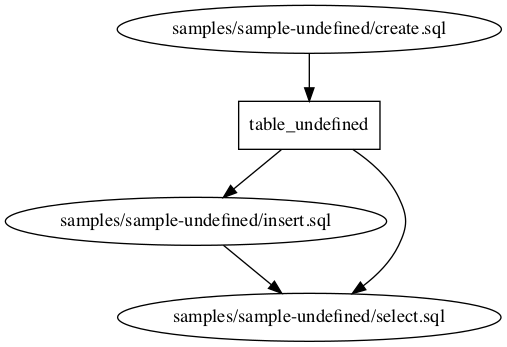
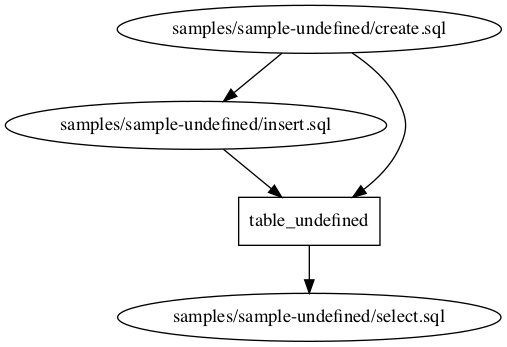
Make side effects before table and after create statements

diff --git a/alphasql/alphadag.cc b/alphasql/alphadag.cc
@@ -125,19 +125,27 @@ int main(int argc, char *argv[]) {
         }
       }
 
-      for (const auto &insert : table_queries.inserts) {
-        alphasql::UpdateEdges(depends_on, table_queries.others, insert);
-      }
-      for (const auto &update : table_queries.updates) {
-        alphasql::UpdateEdges(depends_on, table_queries.others, update);
-      }
       if (with_tables) {
-        alphasql::UpdateEdges(depends_on, table_queries.inserts, table_name);
-        alphasql::UpdateEdges(depends_on, table_queries.updates, table_name);
         alphasql::UpdateEdges(depends_on, table_queries.others, table_name);
+        alphasql::UpdateEdges(depends_on, table_queries.inserts,
+                              table_queries.create);
+        alphasql::UpdateEdges(depends_on, table_queries.updates,
+                              table_queries.create);
+        for (const auto &insert : table_queries.inserts) {
+          alphasql::UpdateEdges(depends_on, {table_name}, insert);
+        }
+        for (const auto &update : table_queries.updates) {
+          alphasql::UpdateEdges(depends_on, {table_name}, update);
+        }
         alphasql::UpdateEdges(depends_on, {table_name}, table_queries.create);
         table_vertices.insert(table_name);
       } else {
+        for (const auto &insert : table_queries.inserts) {
+          alphasql::UpdateEdges(depends_on, table_queries.others, insert);
+        }
+        for (const auto &update : table_queries.updates) {
+          alphasql::UpdateEdges(depends_on, table_queries.others, update);
+        }
         alphasql::UpdateEdges(depends_on, table_queries.inserts,
                               table_queries.create);
         alphasql::UpdateEdges(depends_on, table_queries.updates,
